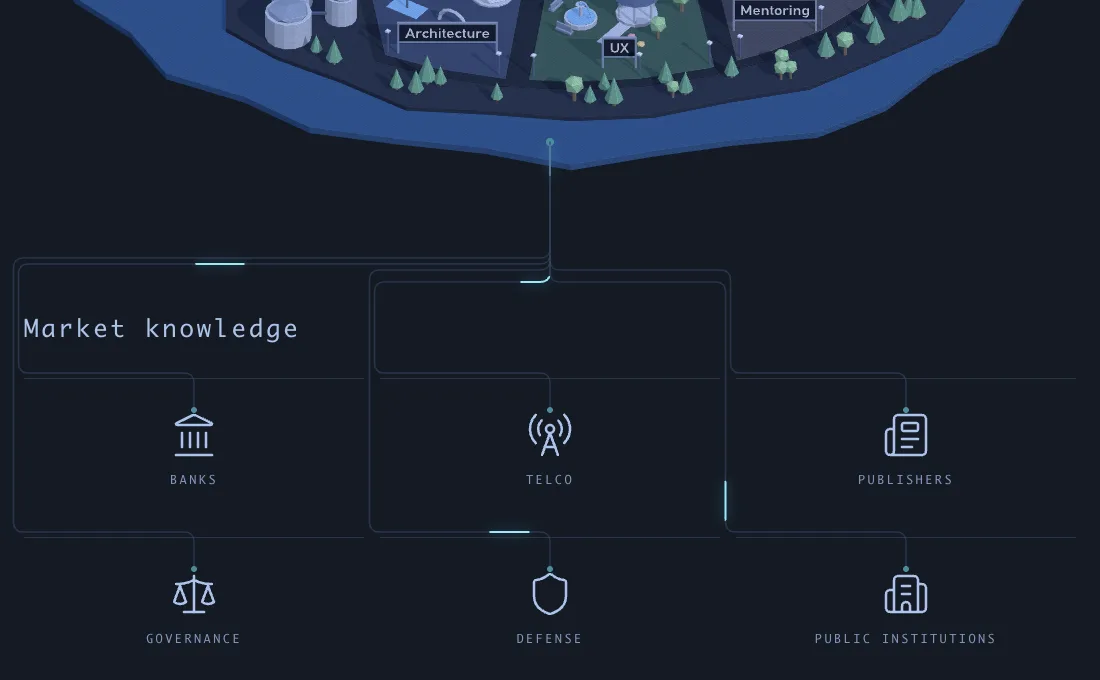
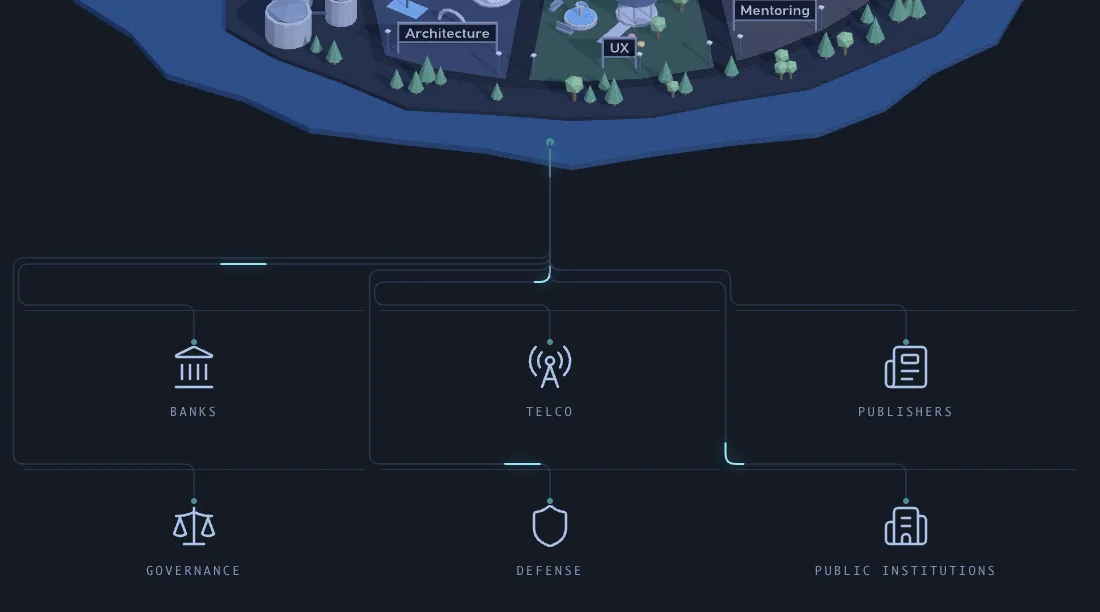
feat: let the traces carry the market section without a heading
The visible heading goes; the section keeps its name for screen readers,
and the plate that hid traces behind the heading is no longer needed.

diff --git a/src/views/Experiments/LandingPage/LandingPage.vue b/src/views/Experiments/LandingPage/LandingPage.vue
@@ -875,9 +875,8 @@ onUnmounted(() => {
       aria-labelledby="sectors-title"
     >
       <SectorTraces :list="sectorList" />
-      <h2 id="sectors-title" class="landing-page__heading landing-page__heading--plated">
-        Market knowledge
-      </h2>
+      <!-- The traces from the city carry the section; its name stays for screen readers. -->
+      <h2 id="sectors-title" class="sr-only">Market knowledge</h2>
       <ul ref="sectorList" class="landing-page__sectors">
         <li v-for="sector in PRODUCT_SECTORS" :key="sector.title" class="landing-page__sector">
           <component
@@ -1012,22 +1011,6 @@ onUnmounted(() => {
 
 .landing-page__section--sectors {
   position: relative;
-}
-
-/* The traces to the sectors run behind the heading, which sits on a plate of the page colour. */
-.landing-page__heading--plated {
-  position: relative;
-  width: fit-content;
-  box-shadow: 0 0 0 var(--spacing-1) var(--color-canvas-overlay-surface);
-  background-color: var(--color-canvas-overlay-surface);
-}
-
-.landing-page__heading {
-  margin: 0 0 var(--spacing-8);
-  color: var(--color-canvas-overlay-accent);
-  font-size: var(--font-size-xl);
-  font-weight: normal;
-  letter-spacing: 0.12em;
 }
 
 .landing-page__footer {

diff --git a/documentation/docs/journey/homepage-sleeping-logo-and-skills-city.md b/documentation/docs/journey/homepage-sleeping-logo-and-skills-city.md
@@ -183,16 +183,15 @@ as a list.
 
 ![Circuit traces running from the island's tip down to each of the six market sectors](/img/homepage/sector-traces.webp)
 
-The sectors the products serve hang off the city like components on a circuit board: one trace
-per sector leaves the island's tip, and a pulse runs down each in turn. The traces are an SVG
-drawn behind the section, from where the sector cells actually are, and redrawn whenever the list
-changes size, so they follow the grid from three columns to two.
+The sectors the products serve hang off the city like components on a circuit board, with no
+heading of their own: one trace per sector leaves the island's tip, and a pulse runs down each in
+turn. The traces are an SVG drawn behind the section, from where the sector cells actually are,
+and redrawn whenever the list changes size, so they follow the grid from three columns to two.
 
 The routing is what keeps them readable. Every column's traces share a lane in the gap to its
 left, never crossing a sector's content; a deeper cell's trace runs on the outer side of its lane,
 and the trace heading furthest out turns off the trunk highest. Under those two rules no two traces
-cross, whatever the grid's shape. Where a lane has to pass the heading on a phone, the heading sits
-on a plate of the page colour and the trace runs behind it.
+cross, whatever the grid's shape.
 
 Two details are easy to get wrong. The cells are measured by their offsets, not their bounding
 boxes, because they slide in as they scroll into view and a box measured mid-slide would leave
